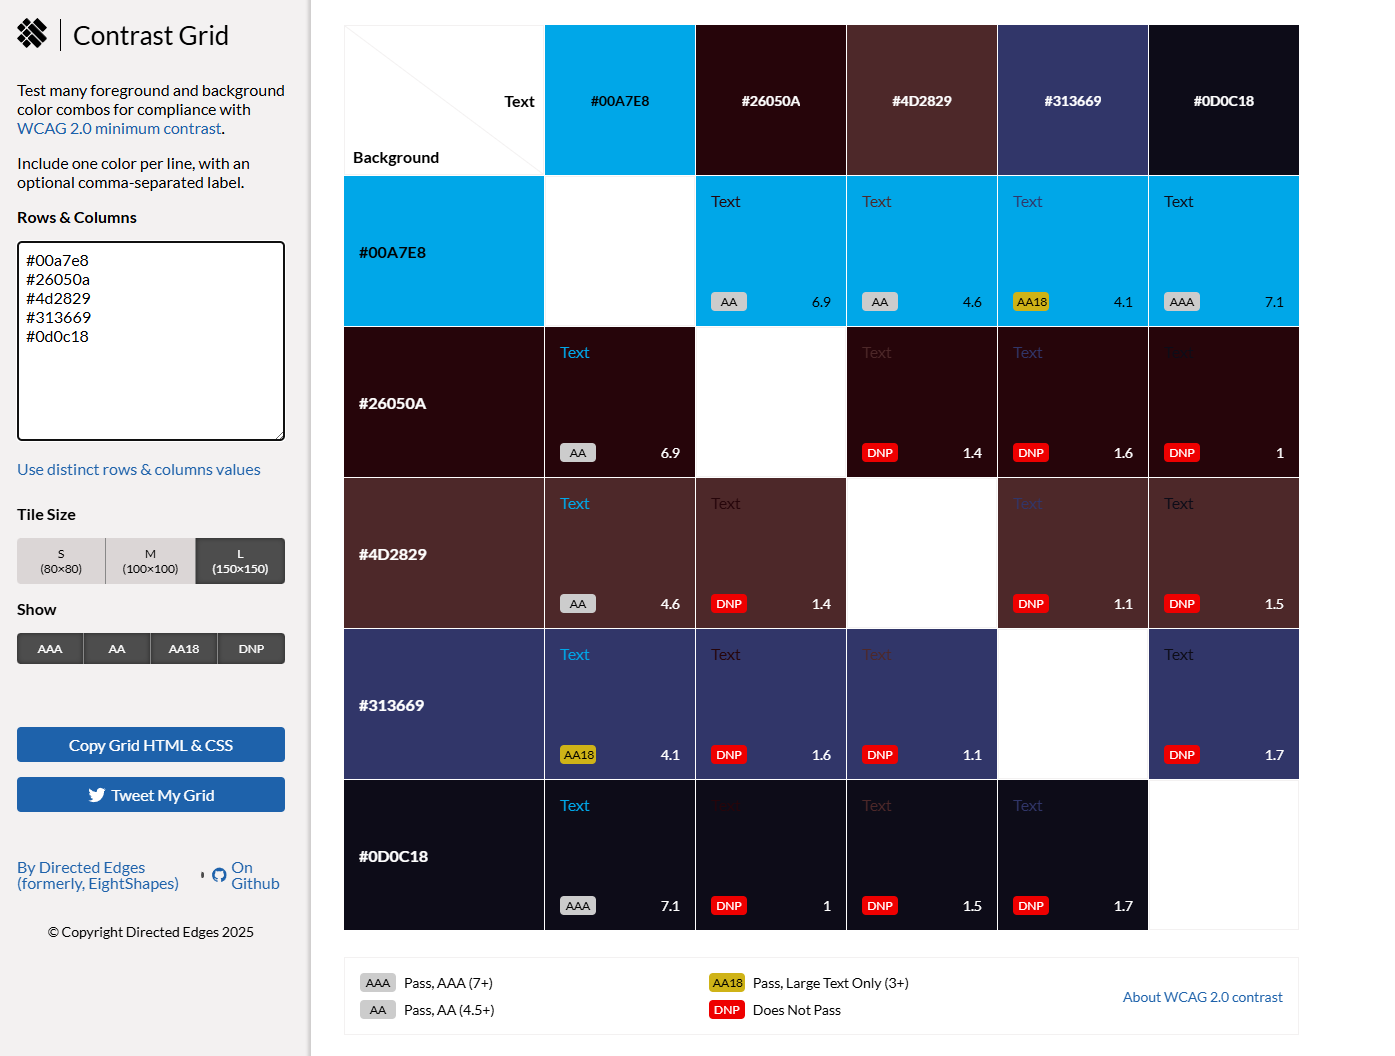
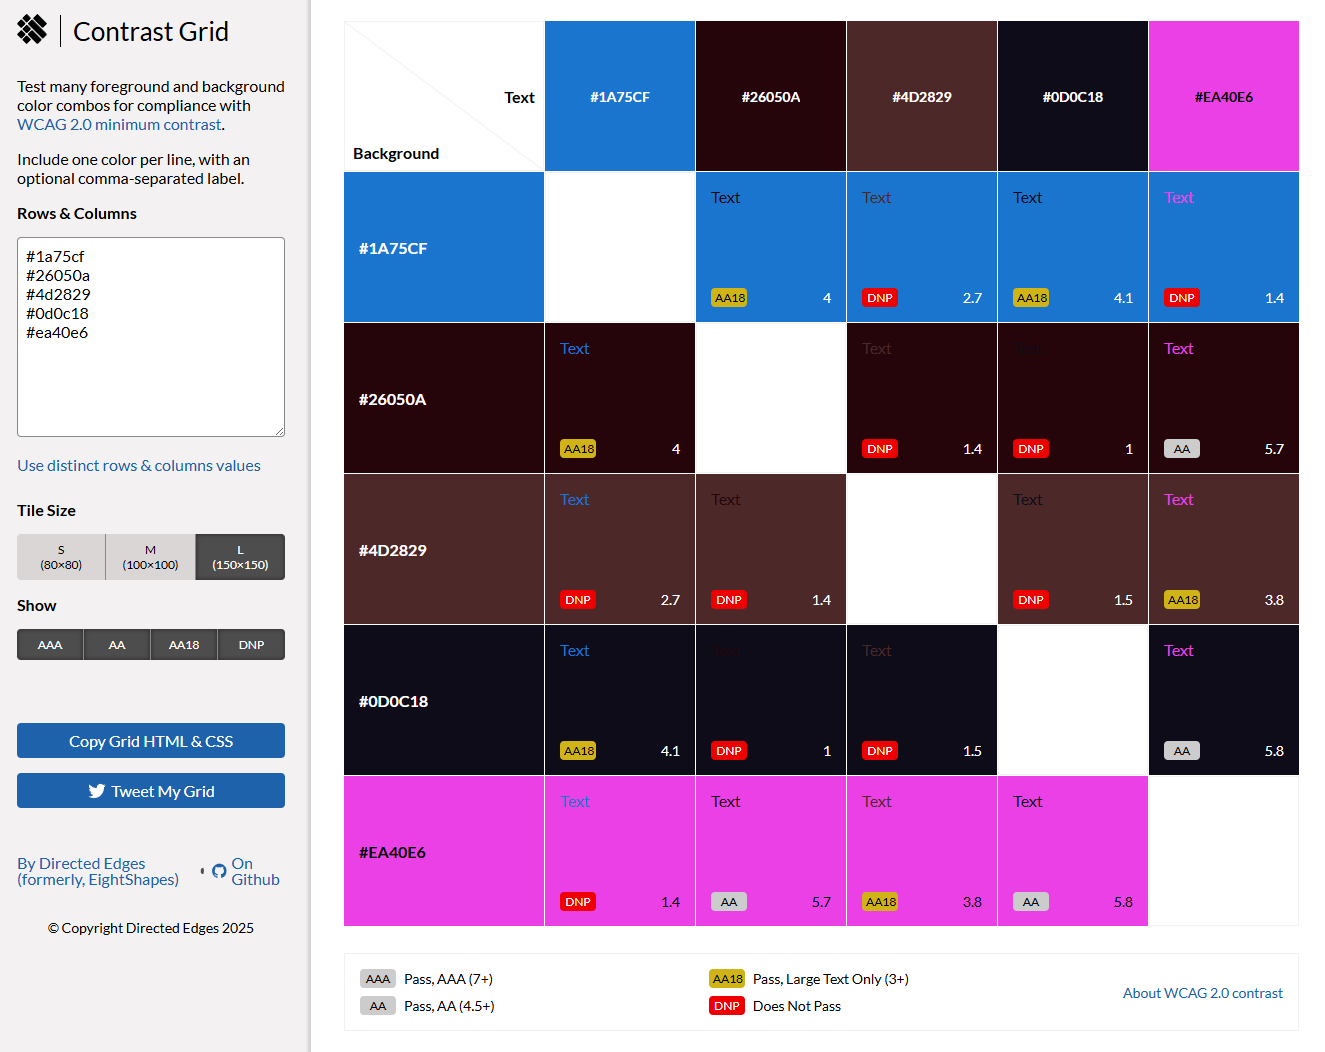
Added all final README sections: UX Strategy, Features, Technologies Used, Testing, Validation, and Credits

diff --git a/contact.html b/contact.html
@@ -311,7 +311,7 @@
     ></script>
 
     <!-- Bootstrap JS mobile navbar -->
-    <script defer>
+    <script>
       document.querySelectorAll('.navbar-collapse .nav-link').forEach((link) => {
         link.addEventListener('click', function (e) {
           let section = document.querySelector(e.target.getAttribute('href'));

diff --git a/index.html b/index.html
@@ -699,7 +699,7 @@
     ></script>
 
     <!-- Bootstrap JS mobile navbar -->
-    <script defer>
+    <script>
       document.querySelectorAll('.navbar-collapse .nav-link').forEach((link) => {
         link.addEventListener('click', function (e) {
           let section = document.querySelector(e.target.getAttribute('href'));

diff --git a/upcoming-gigs.html b/upcoming-gigs.html
@@ -306,7 +306,7 @@
     ></script>
 
     <!-- Bootstrap JS mobile navbar -->
-    <script defer>
+    <script>
       document.querySelectorAll('.navbar-collapse .nav-link').forEach((link) => {
         link.addEventListener('click', function (e) {
           let section = document.querySelector(e.target.getAttribute('href'));

diff --git a/README.md b/README.md
@@ -36,8 +36,9 @@
 4. ### [Technologies Used](#technologies-used) 🛠
    - #### [Favicon Creation & Integration](#favicon-creation--integration) 🖼
 5. ### [Testing & Bug Fixes](#testing--bug-fixes) 🧪
-6. ### [Deployment](#deployment) 🚀
-7. ### [Credits](#credits) 🙏
+6. ### [Validation](#validation) ✅
+7. ### [Deployment](#deployment) 🚀
+8. ### [Credits](#credits) 🙏
 
 ---
 
@@ -47,9 +48,9 @@
 
 Welcome to the official website of Heat: we are a group of friends who play fun and groovy dance-funk music. Our sound is inspired by bands like Daft Punk, Chromeo and Franc Moody.. full of energy, rhythm and good vibes!
 
-We started this band for the love of music and performing live gigs. Over time, we’ve played in local venues, recorded our songs, and grown closer as a team. I made this website to share our music with more people, show where we’re playing next, and make it easy for anyone to book us for a show.
+We all share a strong passion for music and enjoy listening to the same styles, so playing together felt natural from the start. Over time, we’ve played in local venues, recorded our songs, and grown closer as a team. I made this website to share our music with more people, show where we’re playing next, and make it easy for anyone to book us for a show.
 
-Whether you want to listen, learn more about us, or come see us live: this is the right place!
+Whether you want to listen, learn more about us, or come see us live.. this is the right place!
 
 ### Scope
 
@@ -71,9 +72,29 @@ The site includes the following core features:
 
 - A Contact page to reach out for questions, messages, or booking requests
 
-These features make sure that users can learn about us, enjoy our content, and easily reach out to us.
-
 ## User Experience Design
+
+During the UX planning phase, I used the 5 UX Planes and Design Thinking process to define user needs and structure the site accordingly.
+
+**Primary users:**
+
+- Music lovers looking for new original dance/funk bands
+- Venue owners interested in booking bands
+- Fans and curious visitors wanting to explore our music
+
+**Problems they face:**
+
+- No clear way to discover or listen to our music
+- Difficulty finding gig dates or contact info
+- No professional booking method
+
+**Goals:**
+
+- Showcase Heat's identity and sound
+- Promote our gigs and original songs
+- Provide a clear, professional way to book us
+
+![UX Planning](assets\readme-images\ux-worksheet-strategy.png)
 
 ### User Stories
 
@@ -151,11 +172,11 @@ Here are the colours I chose:
 
 ```css
 /* Colour Palette */
---color-button-accent: #1a75cf; /* Deep blue used for buttons with improved text readability */
---color-border: #26050a; /* Deep burgundy – used for borders and small accents */
---color-navbar-background: #4d2829; /* Rich dark red – used as the main navbar background */
---color-main: #0d0c18; /* Nearly black – used as the main page background */
---color-logo: #ea40e6; /* Bright purple – used in the logo for contrast and pop */
+--color-button-accent: #1a75cf; /* Deep blue - used for buttons */
+--color-border: #26050a; /* Deep burgundy - used for borders and small accents */
+--color-navbar-background: #4d2829; /* Rich dark red - used as the main navbar background */
+--color-main: #0d0c18; /* Nearly black - used as the main page background */
+--color-logo: #ea40e6; /* Bright purple - used in the logo for contrast and pop */
 ```
 
 ![Colour Picker with Photo](assets\readme-images\colour-palette\colour-palette-1.png)
@@ -243,7 +264,7 @@ To create a full set of favicons compatible with all major platforms (desktop, A
 
 <br>
 
-![Favicon Generator Preview 1](assets/readme-images/favicon/favicon-1.png)
+![Favicon Generator Preview 1](assets\readme-images\favicon\favicon-1.png)
 
 ![Favicon Generator Preview 2](assets/readme-images/favicon/favicon-2.png)
 
@@ -251,7 +272,59 @@ To create a full set of favicons compatible with all major platforms (desktop, A
 
 ## Testing & Bug Fixes
 
-### ❌ Bug #1 – Anchor links didn't scroll correctly to the right section
+### 🧪 Lighthouse Performance Testing
+
+To check the overall performance and quality of the website, I used the [Lighthouse tool](https://developer.chrome.com/docs/lighthouse/overview/) built into Chrome DevTools. This tool evaluates key areas such as performance, accessibility, and best practices.
+
+I ran the Lighthouse audit on the **live deployed site** in **Incognito mode**, to avoid interference from browser extensions or cached data:
+
+👉 [https://drake-designer.github.io/Heat/](https://drake-designer.github.io/Heat/)
+
+#### 🖥 Desktop results:
+
+- **Performance:** 98
+- **Accessibility:** 100
+- **Best Practices:** 100
+
+![Lighthouse Desktop Report](assets\readme-images\lighthouse\lighthouse-desktop.png)
+
+<br>
+
+#### 📱 Mobile results:
+
+- **Performance:** 74
+- **Accessibility:** 100
+- **Best Practices:** 100
+
+![Lighthouse Mobile Report](assets\readme-images\lighthouse\lighthouse-mobile.png)
+
+Although the performance score is slightly lower on mobile devices, this is common for media-rich websites. To optimise load speed and responsiveness, I have:
+
+- Compressed all images using [Squoosh](https://squoosh.app/)
+- Converted large images to `.webp` format
+- Reduced video file sizes with [HandBrake](https://handbrake.fr/)
+
+These optimisations helped the site maintain excellent results in accessibility and best practices, with solid performance overall.
+
+### ♿ Accessibility Testing with WAVE
+
+To check if my website is accessible for all users, I used the [WAVE Web Accessibility Evaluation Tool](https://wave.webaim.org/).
+
+This tool checks if the site is easy to use for people with different abilities — for example, using screen readers, keyboard navigation, or high contrast settings.
+
+Here are the results:
+
+- ✅ **0 Errors**
+- ✅ **0 Contrast Errors**
+- ⚠ **11 Alerts** (mostly related to redundant ARIA attributes and landmark roles)
+- ✅ **All main headings, alt text, and structure were recognised correctly**
+
+![WAVE Accessibility Report](assets\readme-images\wave-accesibility\wave.png)
+
+These results show that the website follows accessibility best practices.  
+There are no major issues, but manual testing is still important to be sure everything works well for everyone.
+
+### ❌ Bug #1 – Anchor links didn't scroll to the correct section
 
 When clicking on the navigation links like "The Band", "Music", or "Gallery", the scroll did not work properly. Sometimes the section was too high and hidden behind the navbar, and other times it was too low.
 
@@ -279,7 +352,7 @@ padding-top: 72.89px;
 ![Music anchor fixed](assets/readme-images/bugs/bug-5.png)
 ![Gallery anchor fixed](assets/readme-images/bugs/bug-6.png)
 
-### ❌ Bug #2 – Low colour contrast in some areas
+### ❌ Bug #2 – Low colour contrast in site-wide palette (general issue)
 
 While working on the site, I noticed that some text and buttons were not easy to read because the colours didn’t have enough contrast. This was more noticeable on small screens or in dark environments.
 
@@ -289,43 +362,53 @@ Here is the result of the test:
 
 ![Contrast Grid](assets\readme-images\contrast-grid\contrast-grid.png)
 
-✅ Most colour combinations passed the test (like the bright blue on dark backgrounds)
-
-⚠ A few very dark combinations didn’t pass, but I only used those in places without text
-
-Thanks to this test, I made sure the important parts of the site are clear and easy to read for everyone.
-
-### ❌ Bug #3 – Low contrast on main button (accessibility issue)
+### ❌ Bug #3 – Low contrast on primary button (specific UI issue)
 
 While testing the site for accessibility using the WAVE evaluation tool and the WebAIM Contrast Checker, I noticed that the main call-to-action buttons (like "Book your spot!") didn’t have enough contrast between the background color and the white text.
 
 The original CSS value for the button color was:
 
 ```css
---color-button-accent: #00a7e8; /* Bright electric blue */
+--color-button-accent: #00a7e8; /* Bright electric blue - used for buttons */
 ```
 
-Although this color looked visually nice, it had a contrast ratio of 2.72:1, which is below the minimum required by WCAG 2.1 accessibility standards (4.5:1 for normal text). This made it harder to read for users with vision impairments or when viewing the site in low-light conditions.
+Even though the color looked nice, it wasn’t easy to read, especially for people with vision problems or in dark environments.
 
 🛠 Fix:
 
 To solve this, I updated the color to a darker and more accessible shade of blue:
 
 ```css
---color-button-accent: #1a75cf; /* Accessible blue – ensures good contrast */
+--color-button-accent: #1a75cf; /* Deep blue - used for buttons */
 ```
 
-This new color gives a contrast ratio of 4.61:1, which passes WCAG AA requirements and makes the text on buttons easier to read on all devices and for all users.
+> **Note:** The old color `#00a7e8` is not shown in the grid below, but it had a very low contrast ratio and did not meet WCAG guidelines. The new color `#1a75cf` is included and passes the test. Most important text and background combinations in the palette meet the WCAG 2.1 AA contrast standard. Some darker color pairs do not pass, but they are only used for decorative elements or areas without text, so they do not affect too much accessibility.
 
-📸 Before the fix:
+## Validation ✅
 
-📸 After the fix:
+To make sure my code was clean and followed best practices, I tested my HTML and CSS using the following online validation tools:
+
+- [W3C Markup Validator](https://validator.w3.org/#validate_by_input) – to check for any HTML errors or missing elements
+- [W3C CSS Validator](https://jigsaw.w3.org/css-validator/#validate_by_input) – to check for any CSS mistakes or incorrect rules
+- [Autoprefixer](https://autoprefixer.github.io/) – to add vendor prefixes automatically for better browser compatibility
+
+All my HTML code passed validation successfully, with the exception of some small warnings. These were "info-level" messages about the use of self-closing tags (e.g. `<meta />`, `<img />`, `<input />`).
+
+> **These warnings were caused by the Prettier extension in VS Code, which automatically formats empty tags with a `/` at the end. This syntax is valid in XHTML but not required in HTML5. The code still works perfectly in all browsers and does not cause display issues or accessibility problems.**
+
+My CSS passed validation as well. However, after using Autoprefixer, the validator showed a few expected warnings:
+
+- Some vendor prefixes like `-webkit-`, `-ms-`, or `-o` were automatically added to support different browsers
+- Some warnings said that CSS variables (like `var(--example)`) could not be statically checked
+- The `@import` line for Google Fonts is ignored by the validator, which may cause a note at the top
+
+> These are not errors and do not affect how the website works and all styles and features display correctly on modern browsers.
 
 ## Deployment
 
 The website was deployed early in the project, right after the home page (HTML and CSS) was set up and tested.
 
-Deployment was done using **GitHub Pages**, directly from the `main` branch of the repository.
+Deployment was done using GitHub Pages, directly from the main branch of the repository.
 
 ### 🌐 Live Site
 
@@ -342,8 +425,6 @@ You can view the live project here:
    - Selected `/ (root)` as the folder
 5. Clicked **Save**
 6. After a few seconds, GitHub provided a live link to the deployed site
-
----
 
 ### 💻 How to Clone This Repository Locally
 
@@ -364,3 +445,55 @@ If you'd like to clone this project and work on it locally, follow these steps:
    ```
 
 ## Credits
+
+### 👨🏫 Walkthrough Project Inspiration – _Boardwalk Games_
+
+A big part of the layout and structure of my website was inspired by one of the guided projects from the course:
+
+**Boardwalk Games**  
+👉 GitHub: [Boardwalk-Games](https://github.com/Drake-Designer/Boardwalk-Games)  
+👉 Course Link: [Code Institute – Boardwalk Project](https://learn.codeinstitute.net/courses/course-v1:CodeInstitute+BG+2/courseware/21d4dc3fa8f0407a8359ceb1d6fc0c51/c113d413c91d4d789399ce5b1303f2fa/)
+
+This was one of the most fun and helpful parts of the course for me. Thanks to this project, I was able to learn and then use **Bootstrap** properly, and I really enjoyed working with it! I used that knowledge to build the layout of my own project and adapted it for my band website.
+
+One specific part of the JavaScript was copied directly from the Boardwalk Games project:
+
+```html
+<!-- Bootstrap JS mobile navbar -->
+<script defer>
+  document.querySelectorAll('.navbar-collapse .nav-link').forEach((link) => {
+    link.addEventListener('click', function (e) {
+      let section = document.querySelector(e.target.getAttribute('href'));
+      if (section) {
+        e.preventDefault();
+        let navbarHeight = document.querySelector('.navbar-toggler').offsetHeight;
+        window.scroll({
+          top: section.offsetTop - navbarHeight,
+          behavior: 'smooth',
+        });
+        document.querySelector('.navbar-collapse').classList.remove('show');
+      }
+    });
+  });
+</script>
+```
+
+Without this guided project, I wouldn’t have been able to use Bootstrap the way I did or build this site the way I imagined it (and honestly, I really like how it turned out... and I hope you do too! 😄)
+
+> A big thank you and full credit goes to **Jo Heyndels** , the creator of the Boardwalk Games walkthrough project!!!
+
+<br>
+
+### 🎵 Visual Inspiration – _Azure Band Website_
+
+Another source of inspiration for this project was the website of an Irish band based in Dublin: [https://www.azureband.ie/](https://www.azureband.ie/)
+
+I didn’t take any code from their site, I only looked at the visual style and took inspiration from their layout and design choices.
+
+In particular:
+
+- I liked how their hero image is placed on the right, with a subtle animation effect. I used a similar idea in my own site by creating a custom animation with CSS keyframes.
+- The idea of having three main sections ("The Band", "Music", and "Gallery") all in a single scrolling page also came from them. I thought it was a smart way to keep the site clean and easy to navigate.
+- The colour scheme ended up looking a bit similar too, but that was just a coincidence. I created my palette by picking colours from one of our own gig photos.
+
+So even if I didn’t reuse anything from their code, their website was definitely a useful visual reference while building mine.
